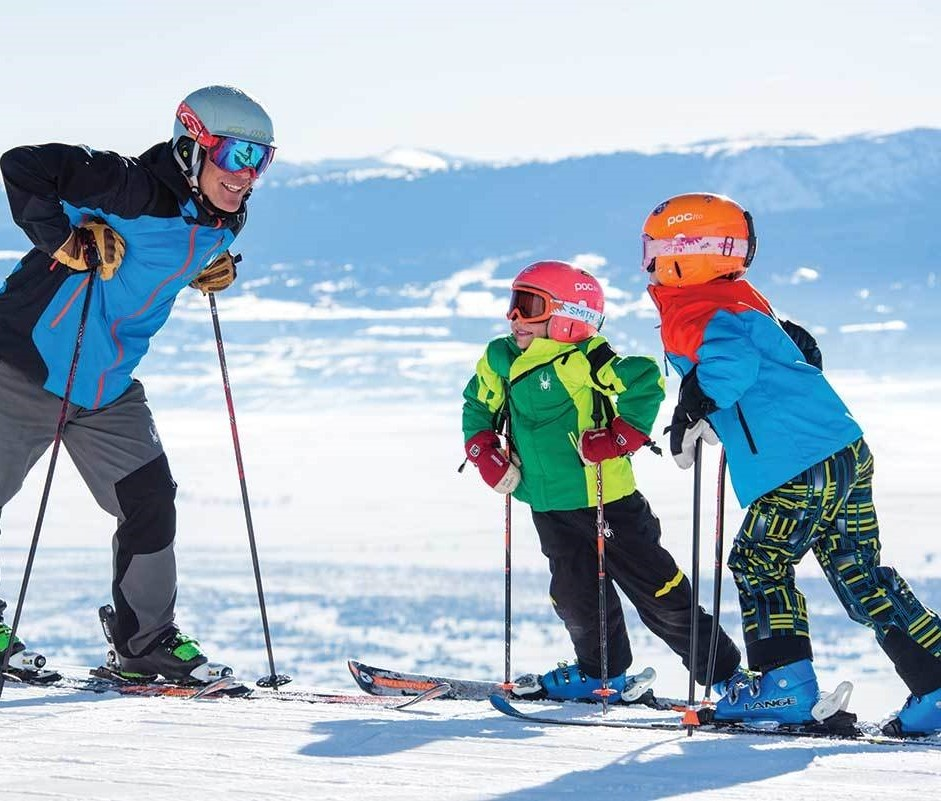
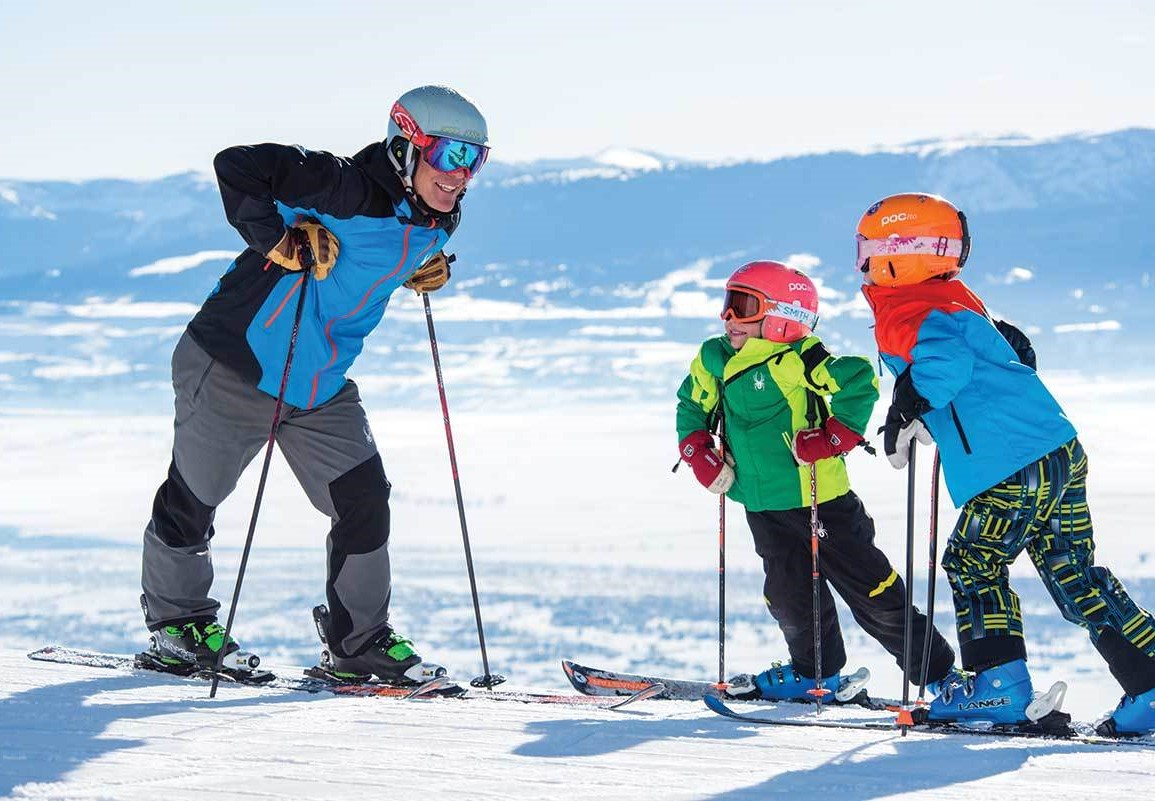
Columnas en Noticias

diff --git a/noticias/index.html b/noticias/index.html
@@ -120,19 +120,16 @@
                 <h2 class="fw-bold">Noticias</h2>
             
                 <div class="row">
-                    <article class="col-md-6">
+                    <article class="col-md-4">
                         <h4 class="noticia-titulo">Esquí en la estación de Formigal</h4>
                         <div class="noticia-texto">
                             <p>
-                                Los estudiantes del Colexio O Camiño vivieron una experiencia inolvidable en su excursión anual a la estación de esquí de Sierra Nevada. Desde tempranas horas de la mañana, los alumnos, acompañados por sus profesores, emprendieron el viaje hacia las montañas cubiertas de nieve, donde les esperaban jornadas llenas de diversión, aprendizaje y aventura. Equipados con sus esquís y ropa térmica, los niños y jóvenes participaron en clases dirigidas por instructores profesionales, mejorando sus habilidades sobre la nieve mientras disfrutaban de impresionantes paisajes invernales.
-                            </p>
-                            <p>
-                                Además del esquí, la excursión incluyó otras actividades como paseos en trineo, juegos en la nieve y momentos de convivencia en la cabaña del refugio. Al finalizar el día, los estudiantes compartieron sus experiencias alrededor de una fogata, disfrutando de un chocolate caliente.
+                                Los estudiantes del Colexio O Camiño vivieron una experiencia inolvidable en su excursión anual a la estación de esquí de Sierra Nevada. Desde tempranas horas de la mañana, los alumnos, acompañados por sus profesores, emprendieron el viaje hacia las montañas cubiertas de nieve, donde les esperaban jornadas llenas de diversión, aprendizaje y aventura. Equipados con sus esquís y ropa térmica, los niños y jóvenes participaron en clases dirigidas por instructores profesionales, mejorando sus habilidades sobre la nieve mientras disfrutaban de impresionantes paisajes invernales. También disfrutaron de un agradable chocolate caliente.
                             </p>
                         </div>
                     </article>
-                    <figure class="col-md-6">
-                        <img class="img-fluid rounded" src="../noticias/images/esqui.jpeg" alt="Nuestros alumnos se van a esquiar" width="941" height="801">
+                    <figure class="col-md-8">
+                        <img class="img-fluid rounded" src="../noticias/images/esqui.jpeg" alt="Nuestros alumnos se van a esquiar" width="1155" height="801">
                     </figure>
                 </div>
             

diff --git a/noticias/styles/screen-noticias.css b/noticias/styles/screen-noticias.css
@@ -19,9 +19,10 @@ header, header nav, header nav ul ul {
     .noticia-texto {
         background-color: var(--azul-noticia);
         color: black;
-        padding: 2%;
+        padding: 3%;
         border-radius: 10px;
         text-align: justify;
+        padding-bottom: 1%;
     }
 
     .img-container {
